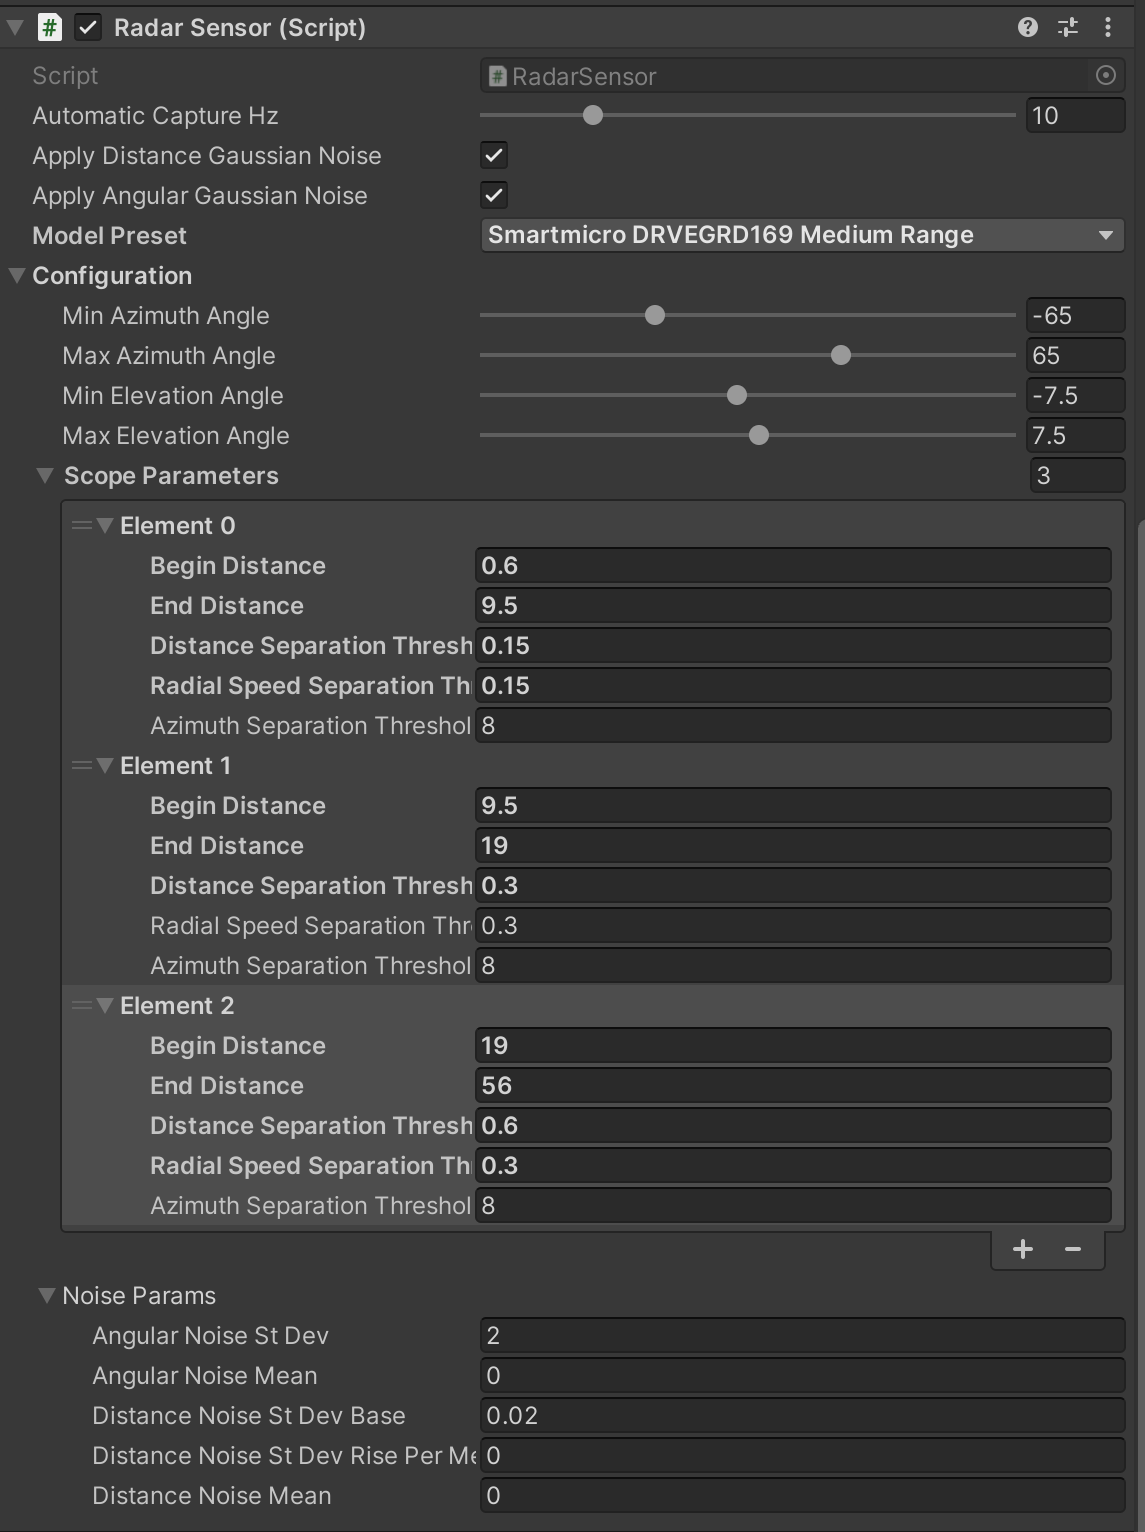
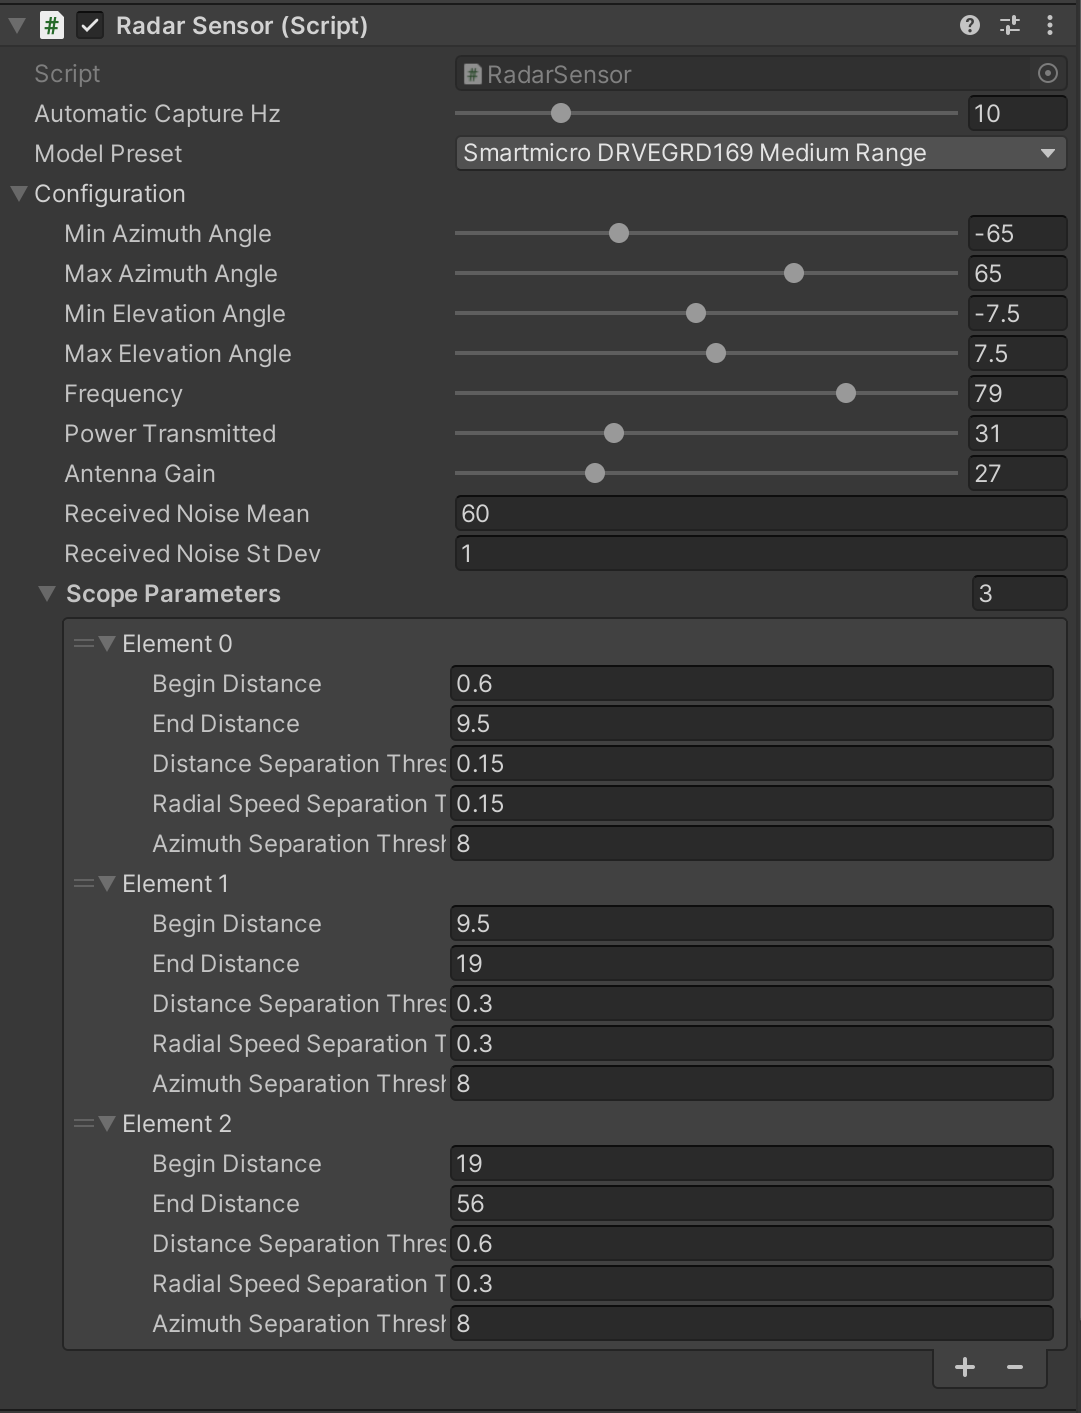
Update docs

Changed region(s): [[0.0, 0.0, 1.0, 1.0], [0.8853, 0.0, 0.9769, 0.0623], [0.8853, 0.8096, 0.9463, 0.8408]]

diff --git a/docs/Components/Sensors/RadarSensor/index.md b/docs/Components/Sensors/RadarSensor/index.md
@@ -16,40 +16,85 @@ power level, noise level and signal-to-noise ratio.
 *RobotecGPULidar*](https://github.com/RobotecAI/RobotecGPULidar) (`RGL`) library with *Unity*.
 
 !!! warning "Use RGL in your scene"
-If you want to use `RGL` in your scene, make sure the scene has
-an [`SceneManager` component](../LiDARSensor/RGLUnityPlugin/#scenemanager) added and all objects meet
-the [usage requirements](../LiDARSensor/RGLUnityPlugin/#usage-requirements).
+    If you want to use `RGL` in your scene, make sure the scene has
+    an [`SceneManager` component](../LiDARSensor/RGLUnityPlugin/#scenemanager) added and all objects meet
+    the [usage requirements](../LiDARSensor/RGLUnityPlugin/#usage-requirements).
 
-## Example
-
-On the screenshot below (scene `RadarSceneDevelop`) Radar detections are shown as blue boxes.
-
-![RadarTestScene.png](radar_test_scene.png)
-
-## Prefab
+### Prefabs
 
 Prefabs can be found under the following path:
 
-Assets/AWSIM/Prefabs/RobotecGPULidars/*
+Assets/AWSIM/Prefabs/Sensors/RobotecGPULidars/*
 
-| LiDAR                  | Path                          | Appearance                                            |
+| Radar                  | Path                          | Appearance                                            |
 |:-----------------------|:------------------------------|:------------------------------------------------------|
 | *SmartmicroDRVEGRD169* | `SmartmicroDRVEGRD169.prefab` | <img src=prefab_smartmicroDRVEGRD169.png width=150px> |
 
-## Components
+### Components
+![components](components.png)
 
-The `RadarSensor` component is shown and explained below:
+The Radar sensor simulation functionality is split into three components:
 
+- *Radar Sensor* (script) - provides radar configuration and creates *RGL* pipeline to simulate radar.
+- *Rgl Lidar Publisher* (script)  - extends *RGL* pipeline with nodes to publish *ROS2* messages ([see](../LiDARSensor/LiDARSensor/#rgl-lidar-publisher-script)).
+- *Point Cloud Visualization* (script) - visualizes point cloud collected by sensor ([see](../LiDARSensor/LiDARSensor/#point-cloud-visualization-script)).
+
+## Radar Sensor (script)
 ![radar_component.png](radar_component.png)
 
-#### Scope Parameters
+This is the component that creates the `RGL` node pipeline for the radar simulation.
+The pipeline consists of:
 
-Radar Sensor ability to separate (distinguish) different detections varies with the distance.
-Scope parameters allow to configure separation thresholds for different distance ranges (scopes).  
+- setting ray pattern,
+- transforming rays to represent pose of the sensor on the scene,
+- applying noise,
+- performing raytracing,
+- performs point cloud post-processing to achieve radar-like output 
 
-  - **Begin Distance** - begin of the distance interval where the following parameters are used.
-  - **End Distance** - end of the distance interval where the following parameters are used.
-  - **Distance Separation Threshold** - the minimum distance between two points to be considered as separate detections.
-  - **Radial Speed Seperation Threshold** - the minimum radial speed difference between two points to be considered as separate detections.
-  - **Azimuth Separation Threshold** - the minimum azimuth difference between two points to be considered as separate detections.
+#### Elements configurable from the editor level
 
+- `Automatic Capture Hz` - the rate of sensor processing
+- `Model Preset` - allows selecting one of the built-in radar models
+- *Configuration*:
+    - `Min Azimuth Angle` - minimum azimuth angle (in degrees)
+    - `Max Azimuth Angle` - maximum azimuth angle (in degrees)
+    - `Min Elevation Angle` - minimum elevation angle (in degrees)
+    - `Max Elevation Angle` - maximum elevation angle (in degrees)
+    - `Frequency` - frequency of the wave propagation by the radar (in GHz)
+    - `Power Transmitted` - power transmitted by the radar (in dBm)
+    - `Antenna Gain` - gain of the radar's antenna (in dBi)
+    - `Received Noise Mean` - mean of the received noise (in dBm)
+    - `Received Noise St Dev` - standard deviation of the received noise (in dBm)
+    - *Scope Parameters* - radar ability to separate (distinguish) different detections varies with the distance (e.g. by employing multiple frequency bands). Scope parameters allow to configure separation thresholds for different distance ranges (scopes):
+        - `Begin Distance` - begin of the distance interval where the following parameters are used
+        - `End Distance` - end of the distance interval where the following parameters are used
+        - `Distance Separation Threshold` - minimum distance between two points to be considered as separate detections
+        - `Radial Speed Seperation Threshold` - minimum radial speed difference between two points to be considered as separate detections
+        - `Azimuth Separation Threshold` - minimum azimuth difference between two points to be considered as separate detections
+
+#### Output Data
+
+`RadarSensor` provides public methods to extend this pipeline with additional `RGL` nodes.
+In this way, other components can request point cloud processing operations and receive data in the desired format.
+
+Example of how to get XYZ point cloud data:
+
+1. To obtain point cloud data from another component you have to create a new `RGLNodeSequence` with RGL node to yield XYZ field and connect it to `RadarSensor`:
+   ```cs
+   rglOutSubgraph = new RGLNodeSequence().AddNodePointsYield("OUT_XYZ", RGLField.XYZ_F32);
+   radarSensor = GetComponent<RadarSensor>();
+   radarSensor.ConnectToWorldFrame(rglOutSubgraph); // you can also connect to radar frame using ConnectToRadarFrame
+   // You can add a callback to receive a notification when new data is ready
+   radarSensor.onNewData += HandleRadarDataMethod;
+   ```
+1. To get data from `RGLNodeSequence` call `GetResultData`:
+   ```cs
+   Vector3[] xyz = new Vector3[0];
+   rglOutSubgraph.GetResultData<Vector3>(ref xyz);
+   ```
+
+## Example
+
+On the screenshot below (scene `RadarSceneDevelop`) radar detections are shown as blue boxes.
+
+![RadarTestScene.png](radar_test_scene.png)

diff --git a/docs/Components/Sensors/LiDARSensor/RGLUnityPlugin/index.md b/docs/Components/Sensors/LiDARSensor/RGLUnityPlugin/index.md
@@ -43,18 +43,24 @@ In subsequent frames of the simulation, `SceneManager` synchronizes the scene be
 ### Scripts
 - `SceneManager` - responsible for syncing the scene between *Unity* and `RGL`.
 - `LidarSensor` - provide lidar configuration and create `RGL` pipeline to simulate lidar.
+- `RadarSensor` - provide radar configuration and create `RGL` pipeline to simulate radar.
 - `PointCloudVisualization` - visualize point cloud on the *Unity* scene.
 - `IntensityTexture` - adds slot for `Intensity Texture ID` to the *GameObject*
 - `SemanticCategory` - adds category ID to the *GameObject*
 - `RGLDebugger` - provides configuration for Native `RGL` debug tools (logging and tape).
 - A set of classes providing tools to define *LiDAR* specification (mostly: ray poses):
-    - `LidarModels` - enumeration of some real-world *LiDARs* names.
+    - `LidarModels` - enumeration with supported *LiDARs* models.
     - `LidarConfiguration` - top-level configuration class, horizontal ranges, distance range, laser array.
     - `LidarConfigurationLibrary` - provides a number of pre-defined `LidarConfigurations`.
     - `LaserArray` - definition of a (vertical) array of lasers.
     - `LaserArrayLibrary` - provides a number of pre-defined `LaserArrays`.
     - `Laser` - describes offsets of a single laser within a `LaserArray`.
     - `LidarNoiseParams` - describes a LiDAR noise that can be simulated
+- A set of classes providing tools to define radar specification:
+    - `RadarModels` - enumeration with supported radar models.
+    - `RadarConfiguration` - top-level configuration class, horizontal ranges, distance range, radar parameters.
+    - `LidarConfigurationLibrary` - provides a number of pre-defined `RadarConfigurations`.
+    - `RadarNoiseParams` - describes a radar noise that can be simulated
 - `LowLevelWrappers` scripts - provides some convenience code to call Native `RGL` functions.
 - `Utilities` scripts - miscellaneous utilities to make rest of the code clearer.
 

diff --git a/docs/ProjectGuide/Scenes/index.md b/docs/ProjectGuide/Scenes/index.md
@@ -109,14 +109,6 @@ The `LidarInstanceSegmentationDemo` is a demo scene for instance segmentation fe
 
 ![InstanceSegmentationDemo](InstanceSegmentationDemo.png)
 
-### RadarSceneDevelop
-
-The scene `RadarSceneDevelop` demonstrates the use of the `RadarSensor` component along with `LiDARSensor`.
-LiDAR hit points are shown as small red points, and radar hit points are shown as bigger blue boxes.
-
-![RadarTestScene.png](RadarTestScene.png)
-
-
 To run demo scene:
 
 1. Open scene: `Assets/AWSIM/Scenes/Samples/LidarInstanceSegmentationDemo.unity`
@@ -129,3 +121,9 @@ To run demo scene:
     - Channel name: `enitity_id`,
     - To better visualization disable `Autocompute` intensity and set min to `0` and max to `50`.
 
+### RadarSceneDevelop
+
+The scene `RadarSceneDevelop` demonstrates the use of the `RadarSensor` component along with `LiDARSensor`.
+LiDAR hit points are shown as small red points, and radar hit points are shown as bigger blue boxes.
+
+![RadarTestScene.png](RadarTestScene.png)

diff --git a/docs/Components/Sensors/LiDARSensor/LiDARSensor/index.md b/docs/Components/Sensors/LiDARSensor/LiDARSensor/index.md
@@ -30,7 +30,7 @@ The ones mounted on the top of autonomous vehicles are primarily used
 Prefabs can be found under the following path:
 
 ```
-Assets/AWSIM/Prefabs/RobotecGPULidars/*
+Assets/AWSIM/Prefabs/Sensors/RobotecGPULidars/*
 ```
 
 The table of available prefabs can be found below:
